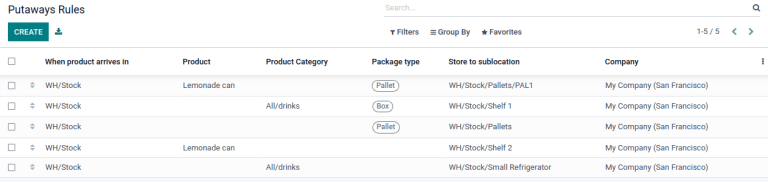
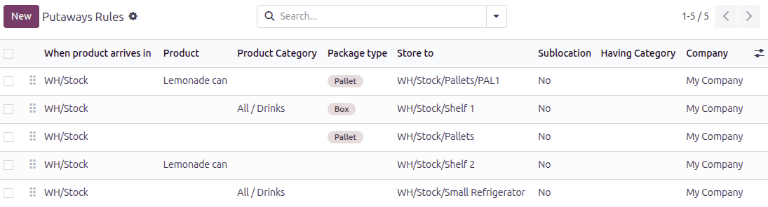
[IMP] Inventory: update putaway rules documentation
closes odoo/documentation#15296

X-original-commit: fa42009b55424ee5b54b5fb380fa900332feb6ae

diff --git a/content/applications/inventory_and_mrp/inventory/shipping_receiving/daily_operations/putaway.rst b/content/applications/inventory_and_mrp/inventory/shipping_receiving/daily_operations/putaway.rst
@@ -27,7 +27,6 @@ so, the :guilabel:`Storage Locations` feature is also automatically activated.
 Finally, click :guilabel:`Save`.
 
 .. image:: putaway/activate-multi-step-routes.png
-   :align: center
    :alt: Activate Multi-Step Routes in Inventory configuration settings.
 
 .. _inventory/routes/putaway-rule:
@@ -36,13 +35,14 @@ Define putaway rule
 -------------------
 
 To manage where specific products are routed for storage, navigate to :menuselection:`Inventory app
---> Configuration --> Putaway Rules`. Use the :guilabel:`Create` button to configure a new putaway
+--> Configuration --> Putaway Rules`. Use the :guilabel:`New` button to configure a new putaway
 rule on a :guilabel:`Product` or :guilabel:`Product Category` that the rule affects.
 
 .. important::
    Putaway rules can be defined either per product/product category, and/or package type (the
    *Packages* setting must be enabled in :menuselection:`Inventory app --> Configuration -->
-   Settings` for that).
+   Settings` for that). Additionally, a :doc:`storage category <storage_category>`
+   can be defined to limit capacities of a storage location and route products accordingly.
 
 In the same line, the :guilabel:`When product arrives in` location is where the putaway rule is
 triggered to create an operation to move the product to the :guilabel:`Store to` location.
@@ -63,8 +63,27 @@ easier to find).
    Repeat this for all products and hit :guilabel:`Save`.
 
    .. image:: putaway/create-putaway-rules.png
-      :align: center
       :alt: Create putaway rules for apples and carrots.
+
+Use the :guilabel:`Sublocation` field to specify whether to use a sublocation or specify a
+storage category:
+
+- :guilabel:`No`: no sublocation is used. Products are directed to whatever is specified in the
+  :guilabel:`Store to` field.
+- :guilabel:`Last Used`: the last location that had a move associated with it for that product or
+  product category is used. If there is no last location used, the destination is whatever is
+  specified in the :guilabel:`Store to` field.
+- :guilabel:`Closest Location`: the locations specified as part of a storage category are used. A
+  storage category is mandatory in the :guilabel:`Having Category` field.
+
+To apply a putaway rule to *all* products, create an empty putaway rule with no specified
+:guilabel:`Product` or :guilabel:`Product Category`. All products are stored in the location
+specified in the :guilabel:`Store to` field.
+
+.. note::
+   A best practice for an empty putaway rule is to specify the :guilabel:`Last used`
+   :guilabel:`Sublocation`. Specifying :guilabel:`Last used` ensures that Odoo suggests the last
+   location used to store a product.
 
 Putaway rule priority
 ---------------------
@@ -90,6 +109,5 @@ match is found:
    #. Items in the `All/drinks` product category are redirected to `WH/Stock/Small Refrigerator`.
 
   .. image:: putaway/putaway-example.png
-     :align: center
      :alt: Some examples of putaway rules.
 
